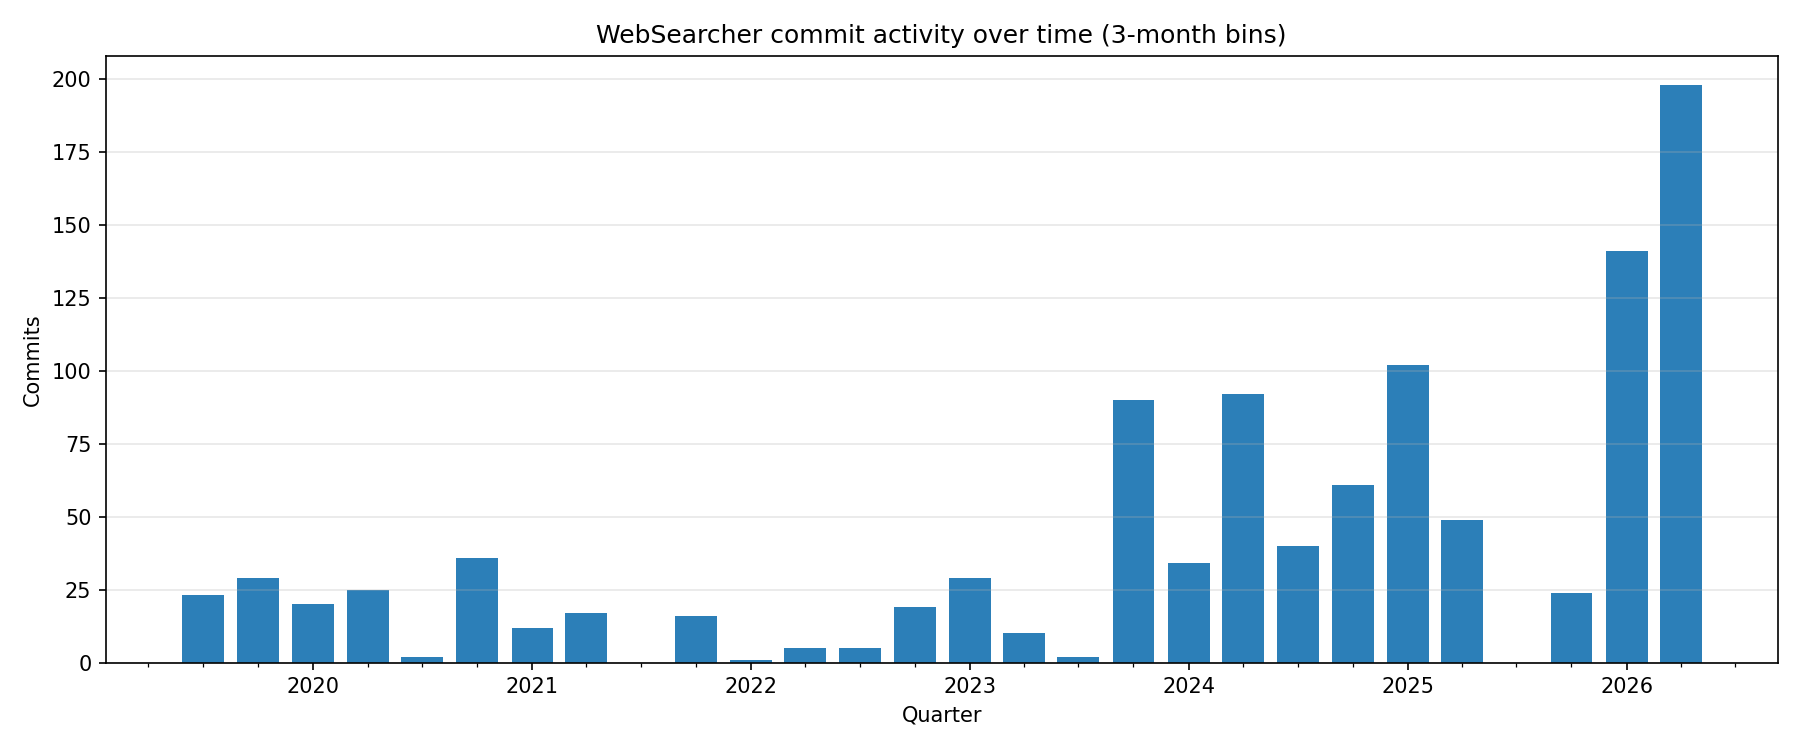
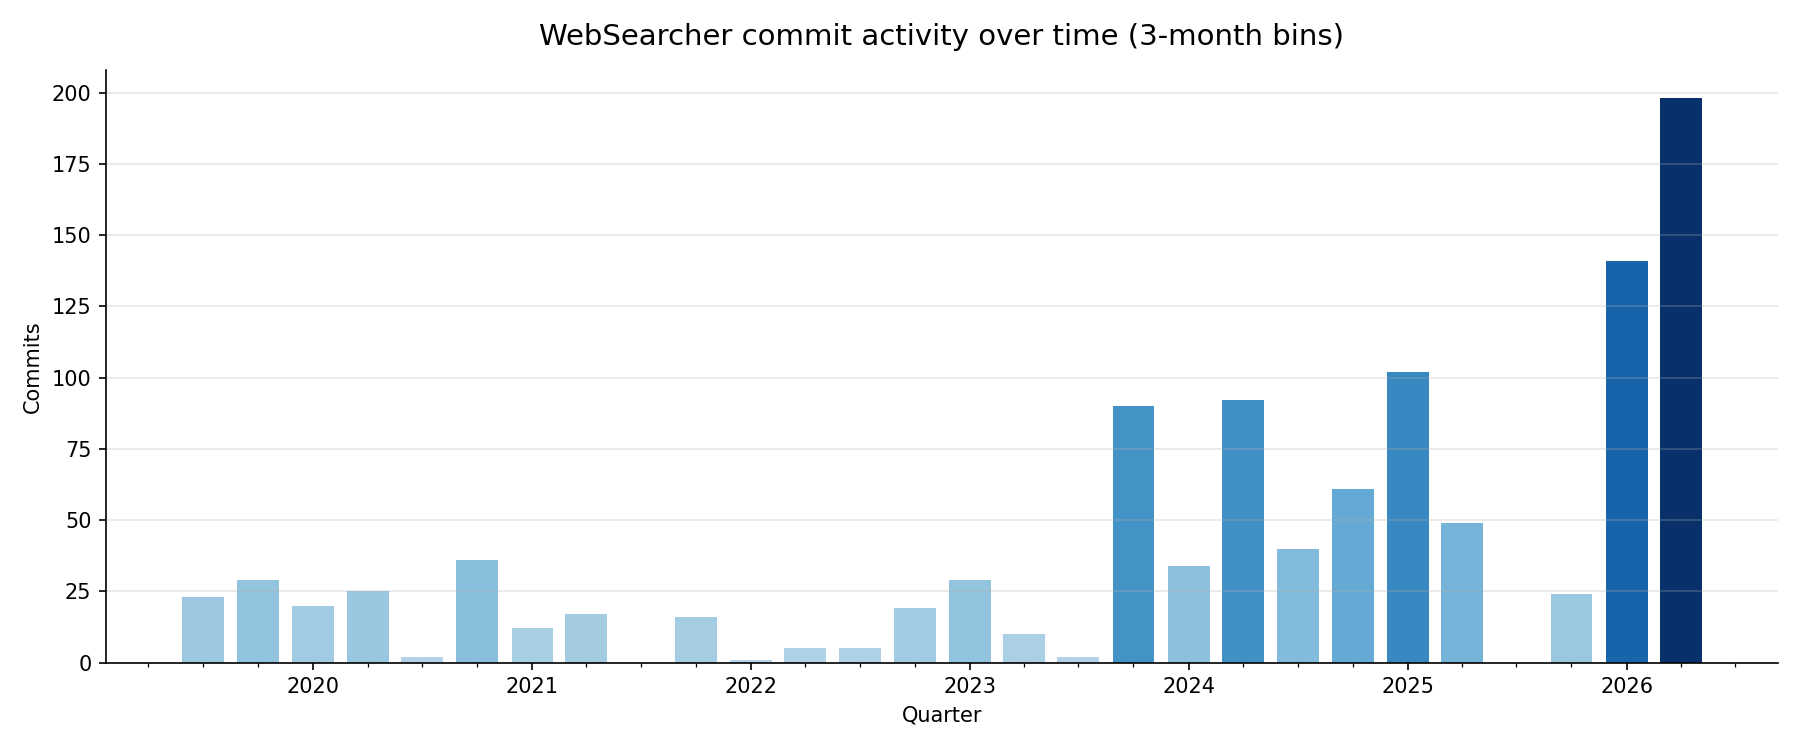
update: shade commit-activity bars by count

diff --git a/docs/reports/dev-story/plot_activity.py b/docs/reports/dev-story/plot_activity.py
@@ -24,15 +24,23 @@ with open(HERE / "commits.csv", newline="", encoding="utf-8") as f:
 quarters = sorted(counts)
 values = [counts[q] for q in quarters]
 
+# Shade each bar by its own commit count: busier quarters run darker. Floor the
+# ramp at 0.3 so the quietest quarters stay visible rather than washing out.
+cmap = plt.get_cmap("Blues")
+hi = max(values)
+colors = [cmap(0.3 + 0.7 * v / hi) for v in values]
+
 fig, ax = plt.subplots(figsize=(12, 5))
-ax.bar(quarters, values, width=70, color="#2c7fb8")
-ax.set_title("WebSearcher commit activity over time (3-month bins)")
+bars = ax.bar(quarters, values, width=70, color=colors)
+ax.set_title("WebSearcher commit activity over time (3-month bins)", fontsize=14, pad=12)
 ax.set_xlabel("Quarter")
 ax.set_ylabel("Commits")
 ax.xaxis.set_major_locator(mdates.YearLocator())
 ax.xaxis.set_major_formatter(mdates.DateFormatter("%Y"))
 ax.xaxis.set_minor_locator(mdates.MonthLocator((1, 4, 7, 10)))
 ax.grid(axis="y", alpha=0.3)
+for side in ("top", "right"):
+    ax.spines[side].set_visible(False)
 fig.tight_layout()
 fig.savefig(HERE / "commit_activity.png", dpi=150)
 print(f"wrote commit_activity.png ({len(quarters)} quarters, {sum(values)} commits)")